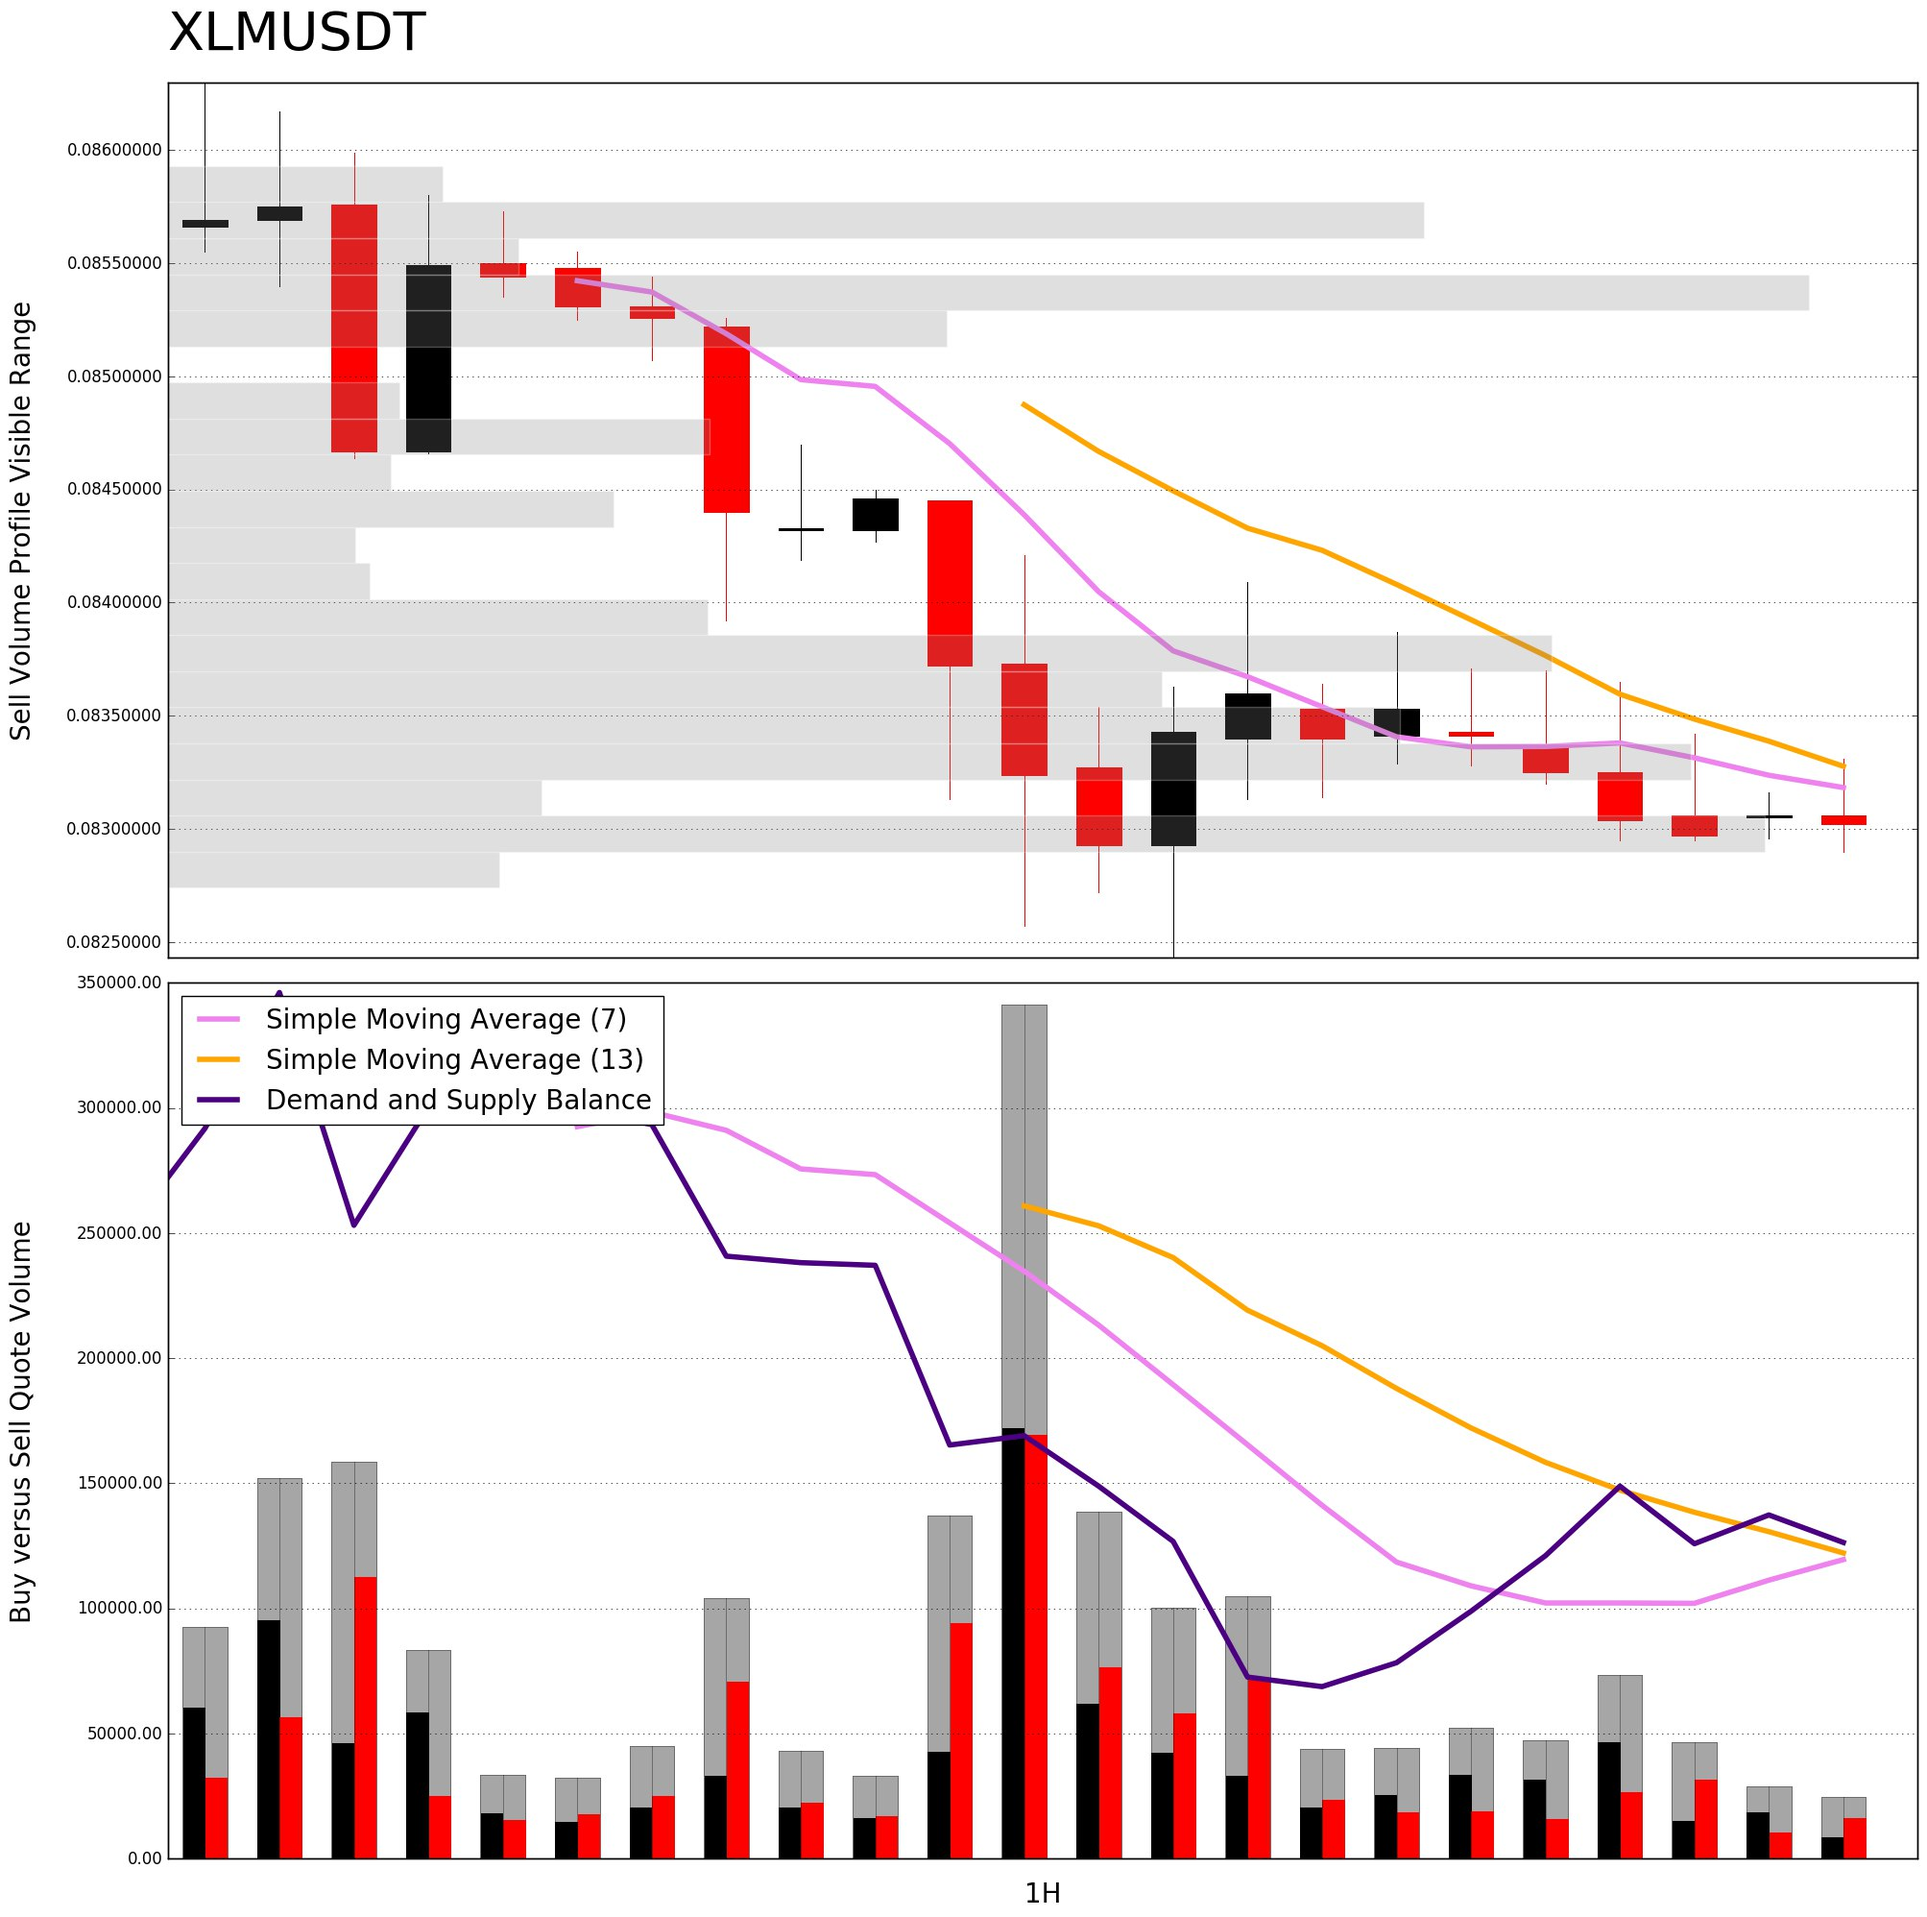
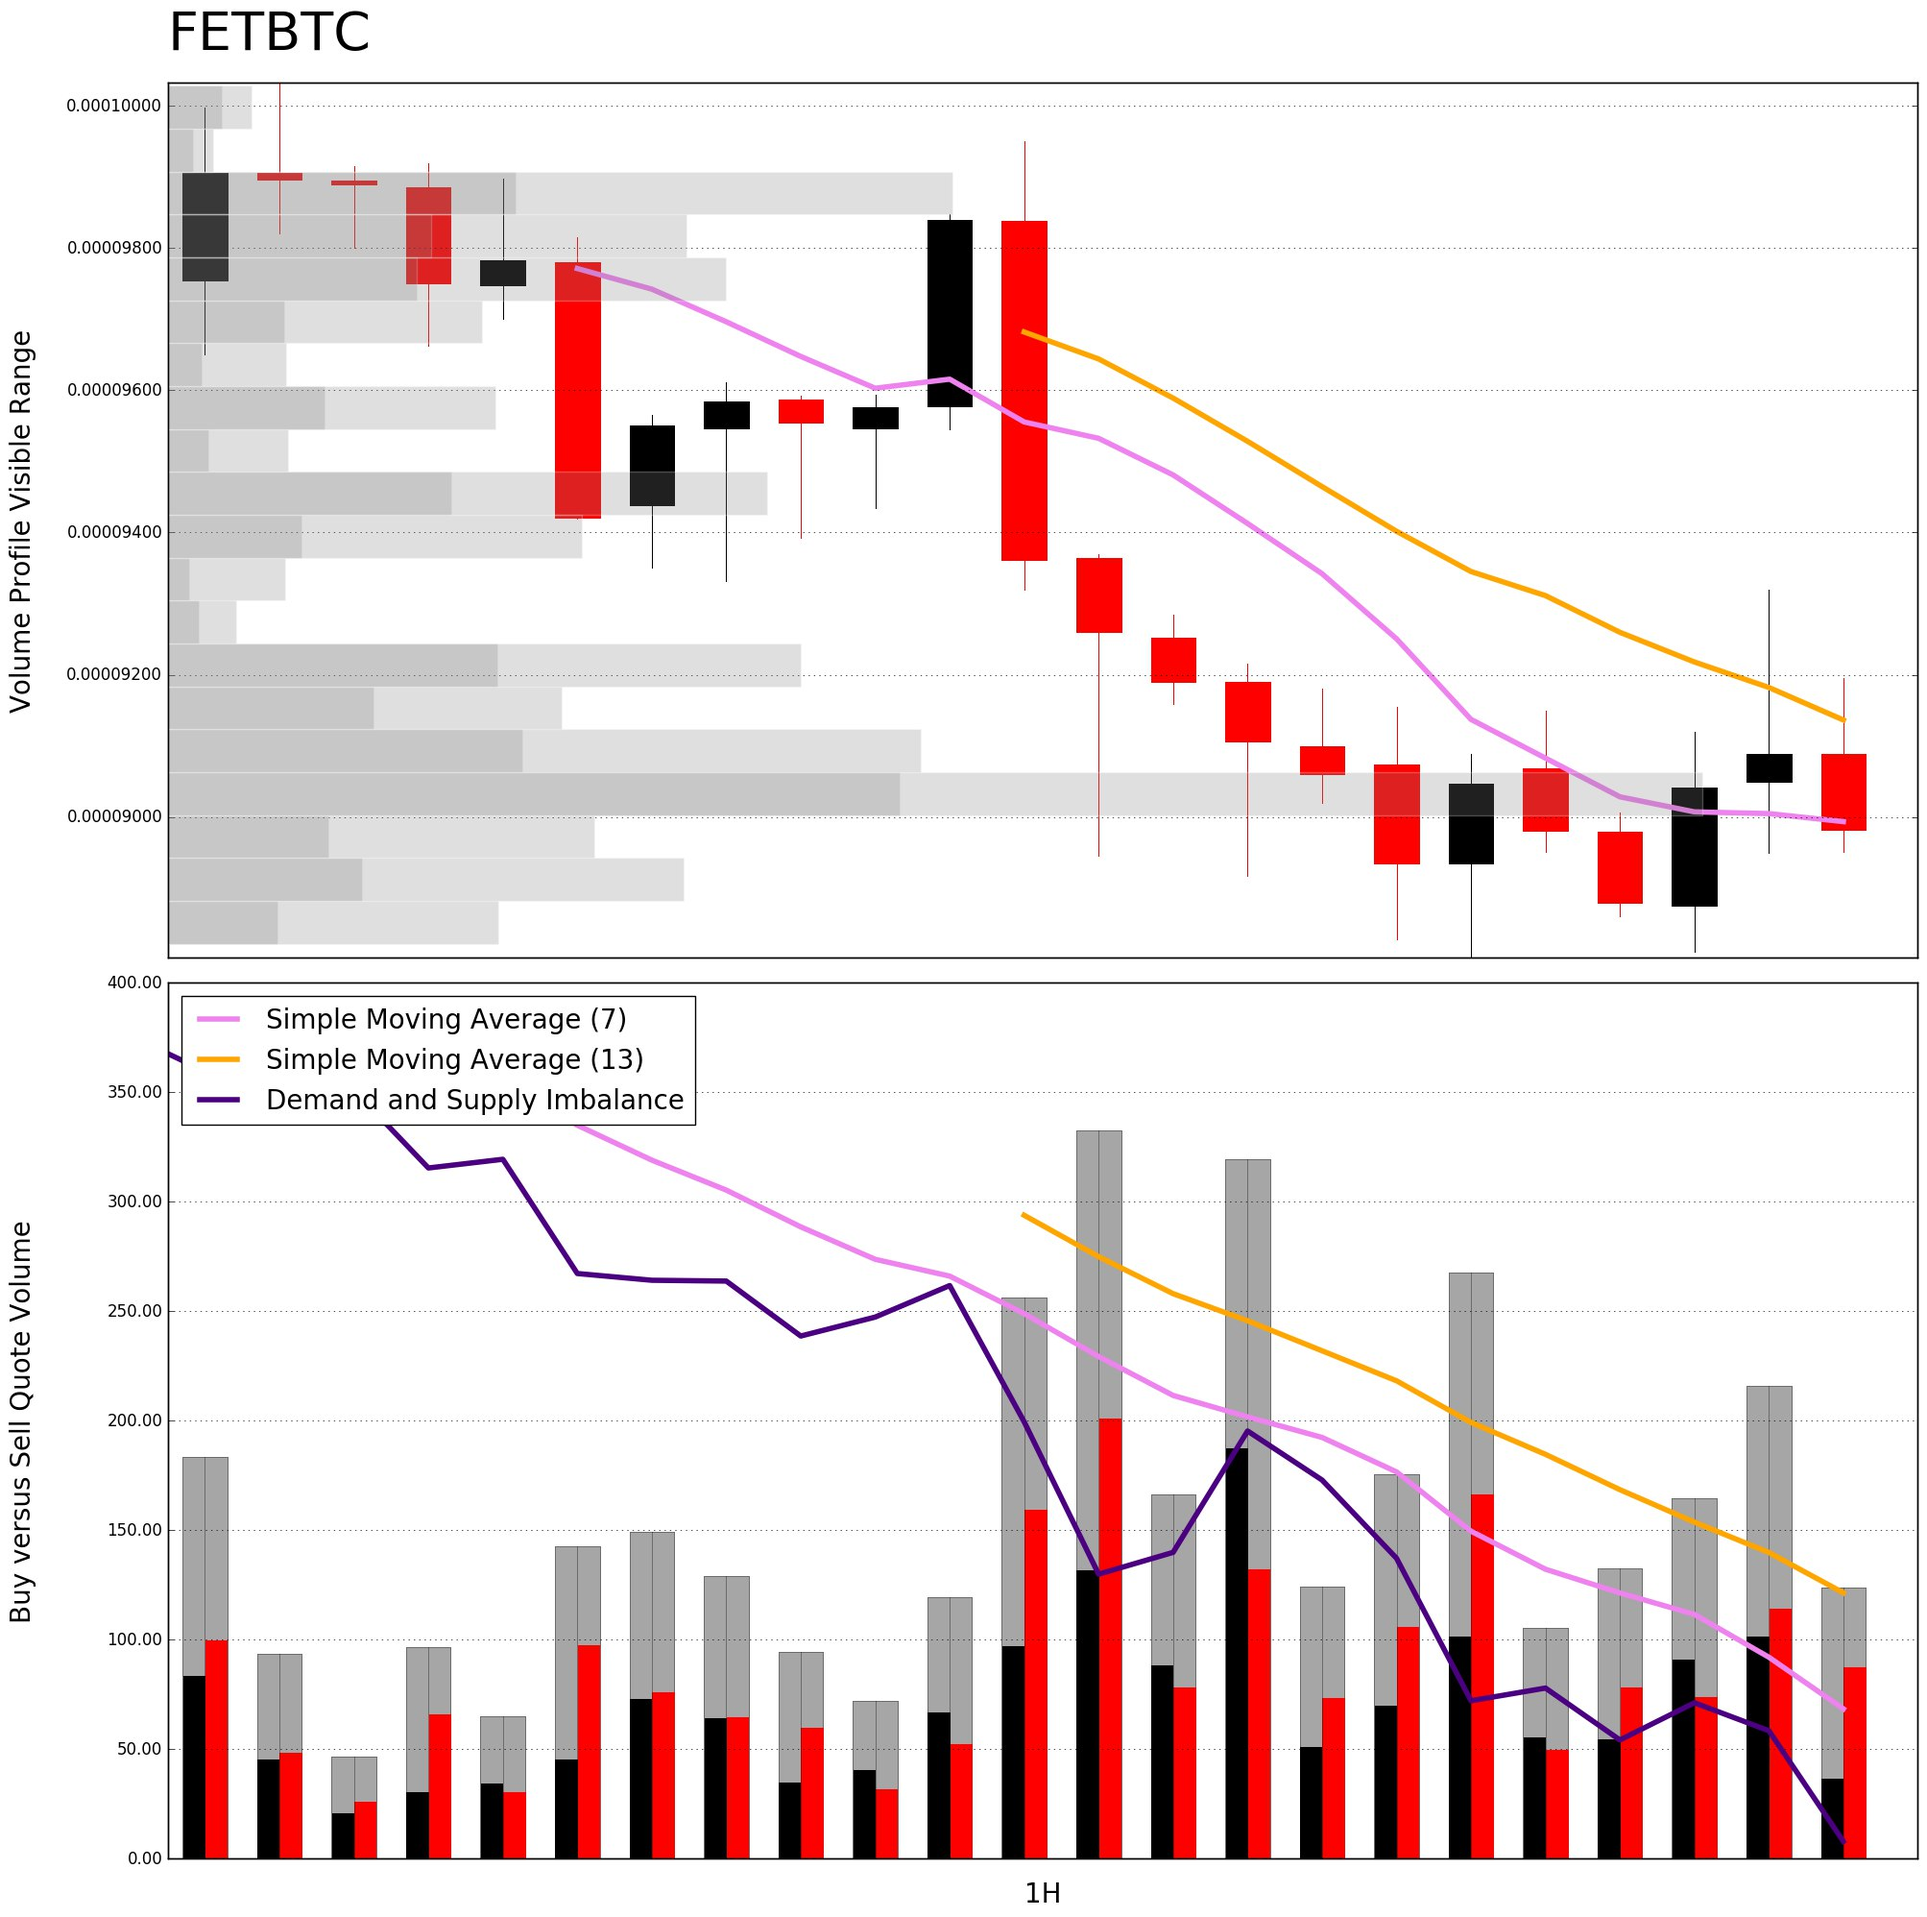
Commit time: `date +'m-H:S'`

diff --git a/README.md b/README.md
@@ -88,18 +88,18 @@ Sat Mar  2 19:31:57 2019
 
 <img src="img/t.jpg" width="700">
 
-### Scalping Analysis
+### Scalping
 
 ```
-/s xlmusdt
+/s fet
 ```
 
 ```
-#XLMUSDT
-P: 0.08302000 VWAP: 0.08420219 V: 2,149,121.50
-30 mins: Buy 5,189.32, Sell 9,287.83
-15 mins: Buy 1,535.70, Sell 2,095.77
-5 mins: Buy 585.29, Sell 648.01
+#FETBTC
+P: 0.00008982 VWAP: 0.00009359 V: 4,121.56
+30 mins: Buy 21.49, Sell 46.61
+15 mins: Buy 13.10, Sell 27.35
+5 mins: Buy 0.03, Sell 0.01
 ```
 
 <img src="img/s.jpg" width="700">
